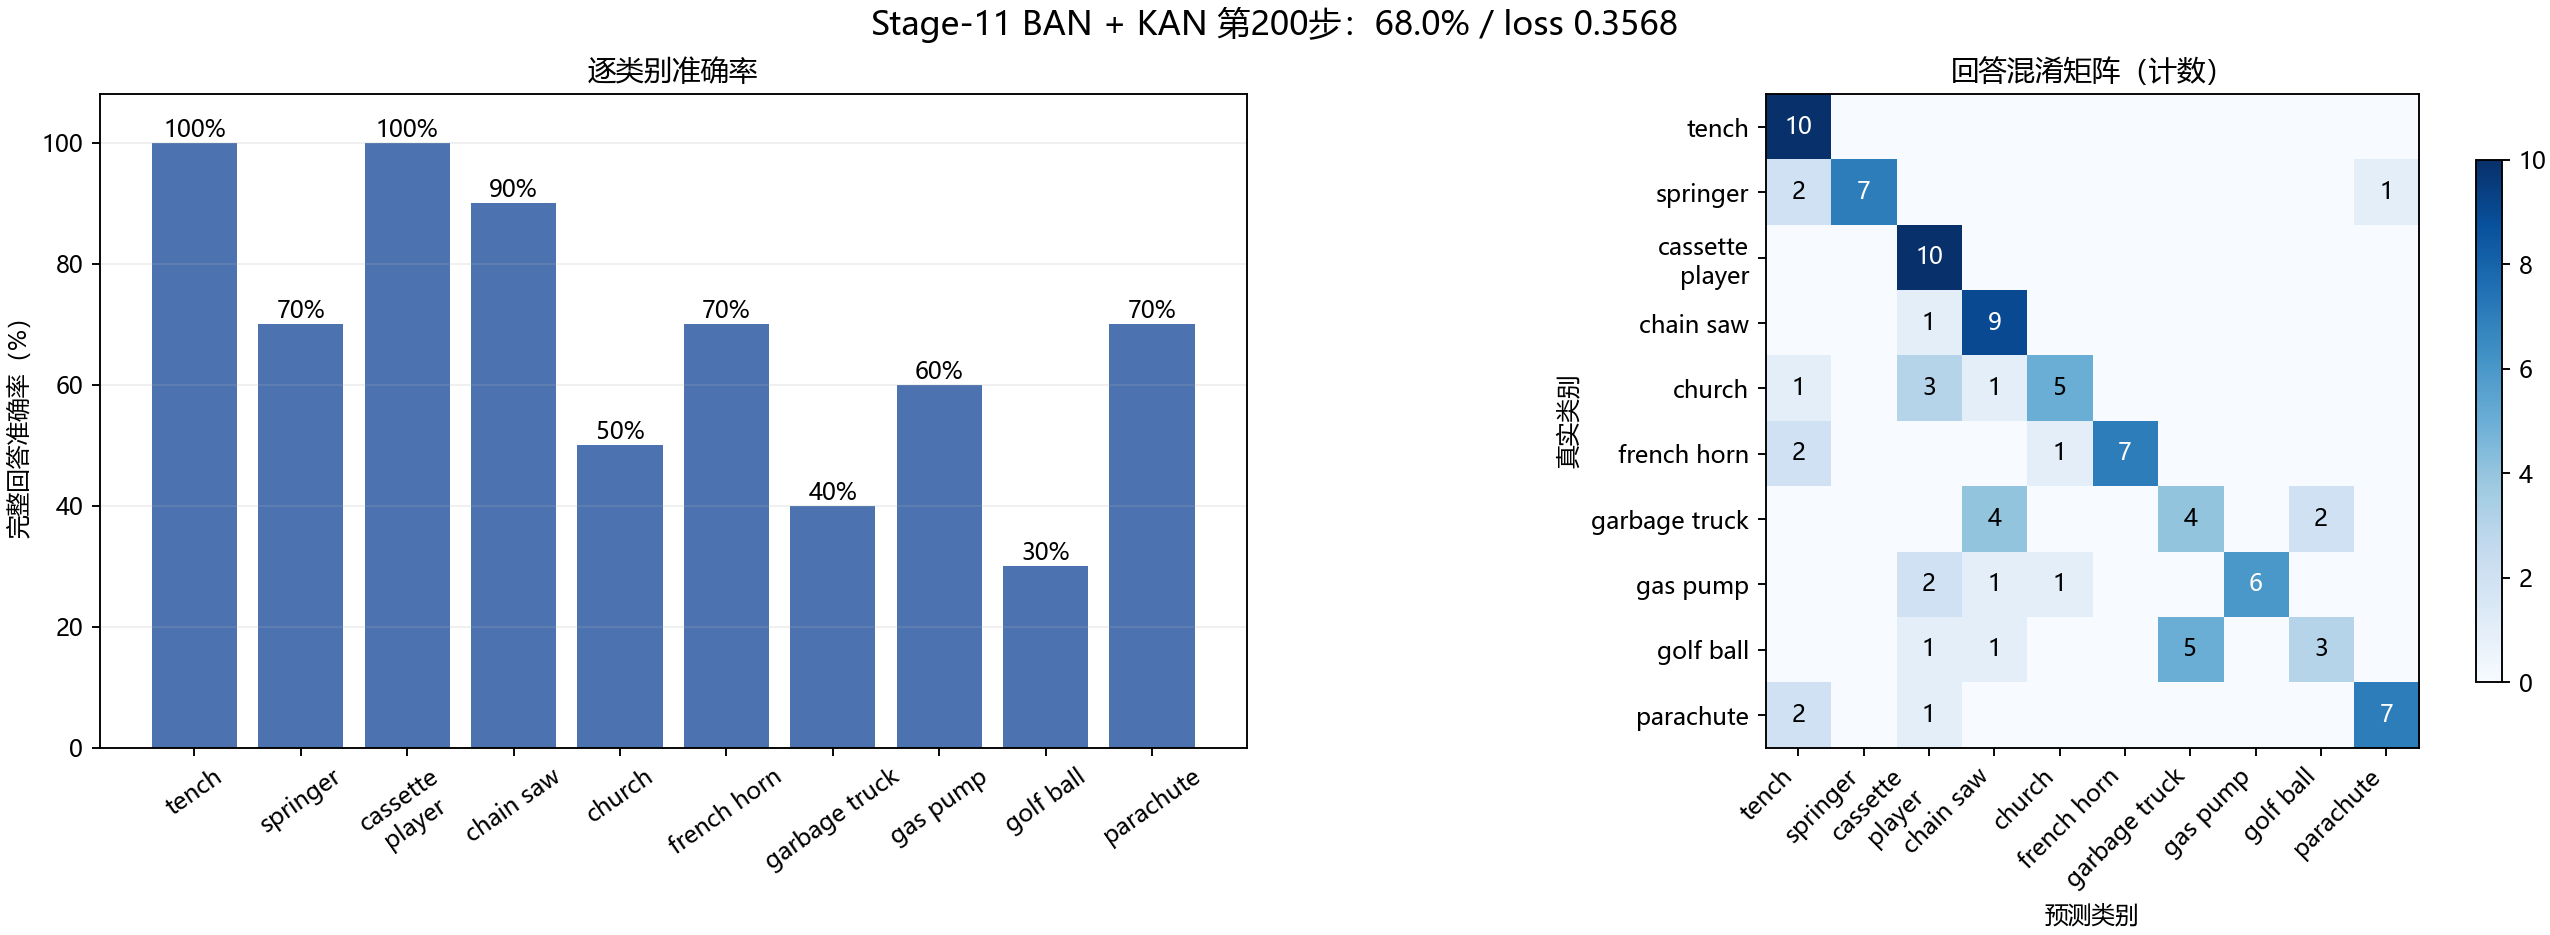
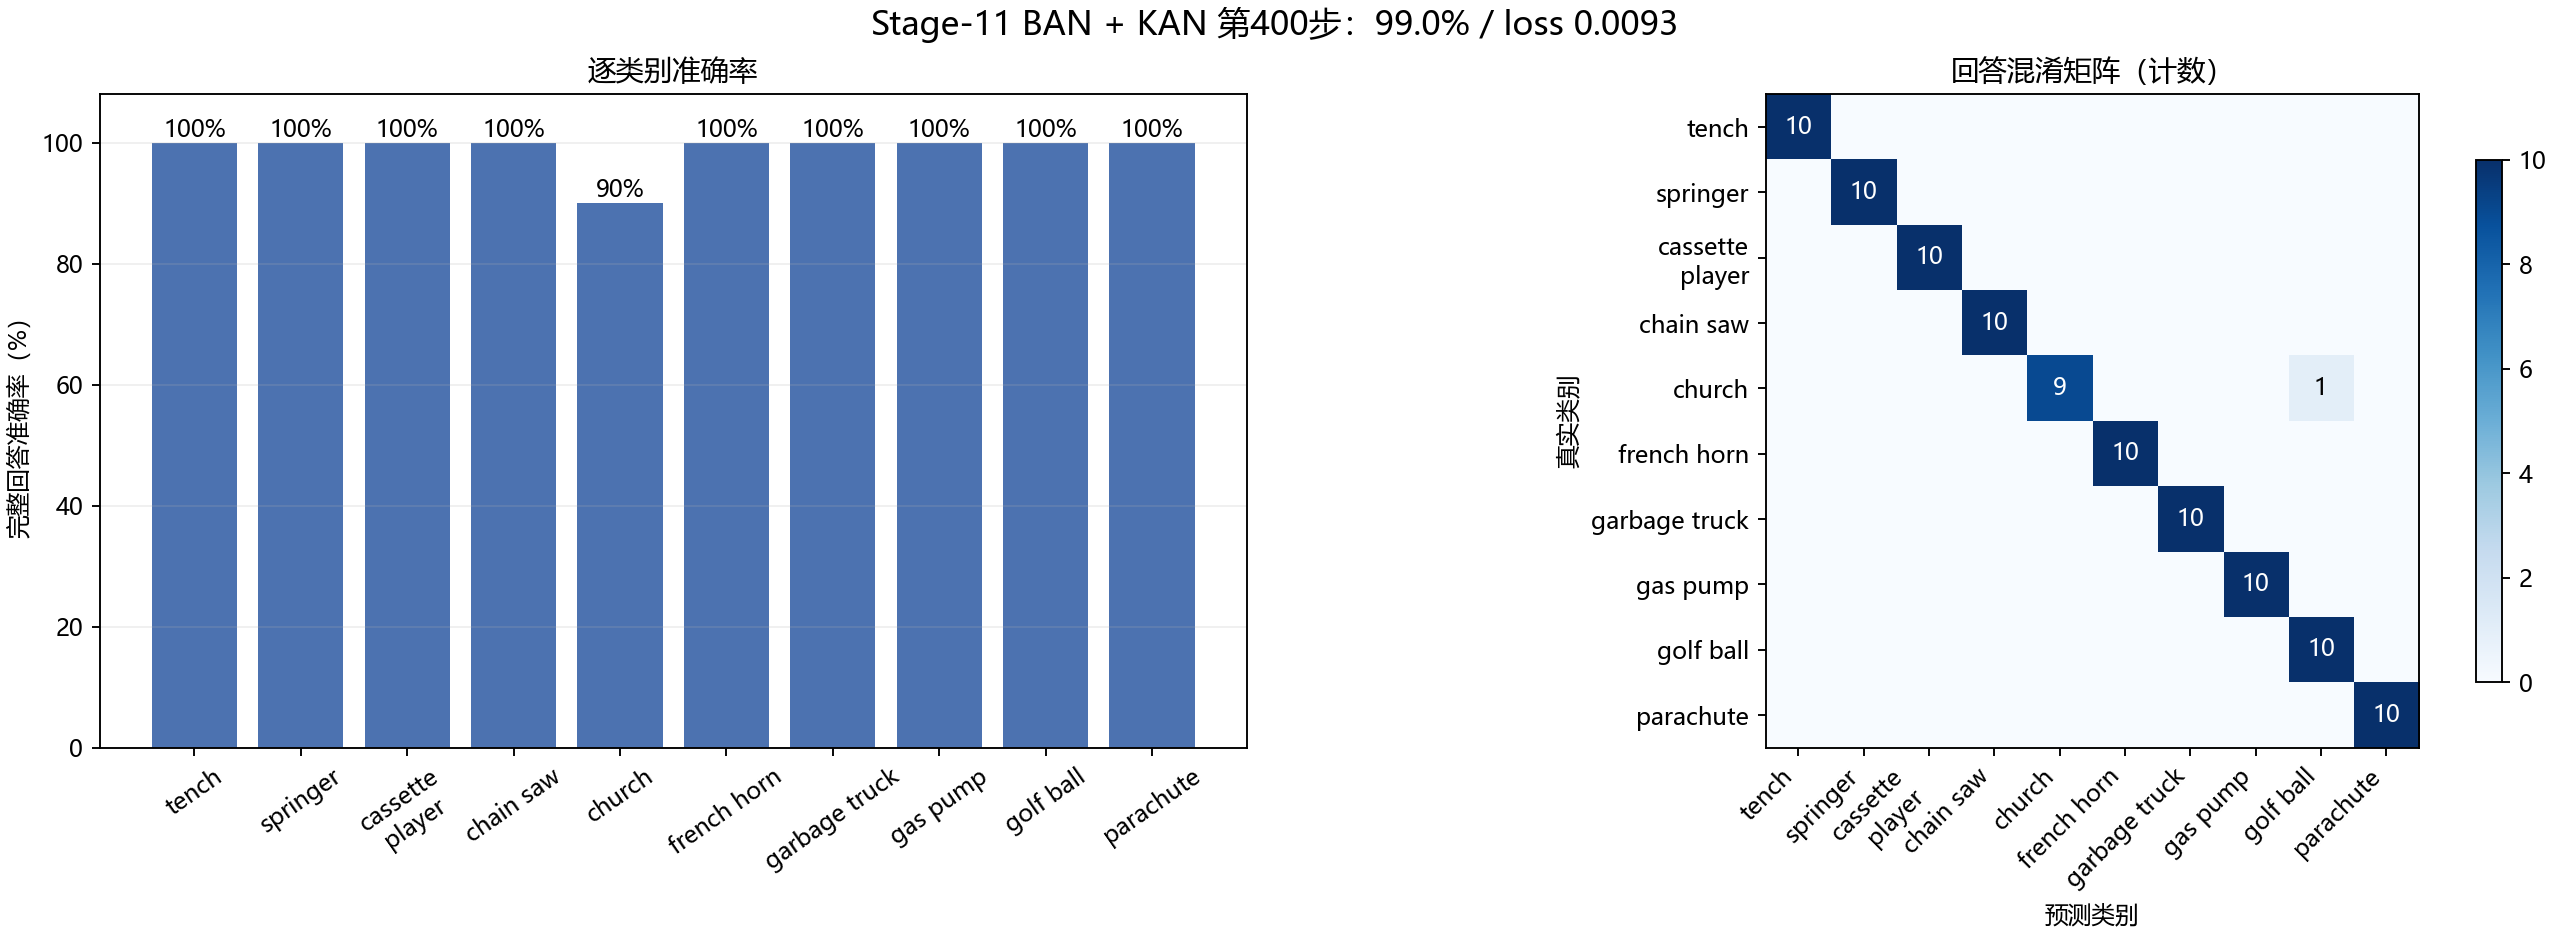
Record Stage 11 step 400 validation

diff --git a/STAGE11_PROGRESS.md b/STAGE11_PROGRESS.md
@@ -1,12 +1,12 @@
 # Stage-11 四小时推进快照
 
-- 生成时间：2026-10-05T12:43:42+08:00
+- 生成时间：2026-10-05T12:50:41+08:00
 - 协议：`STAGE11_ABLATION_PROTOCOL.json`
 - 数据边界：仅使用训练集与固定开发验证集；Stage-10 最终测试集不参与结构选择。
 
 | 结构 | 状态 | 步数 | 最近训练损失 | 当前最佳验证损失 | 当前最佳准确率 |
 |---|---|---|---|---|---|
-| BAN + KAN | 训练中 | 241/800 | 1.102820 | 0.356773 | 68.00% |
+| BAN + KAN | 训练中 | 428/800 | 0.360941 | 0.009316 | 99.00% |
 | BAN + MLP | 等待自动接力 | 0/800 | — | — | — |
 | Concat + MLP | 等待自动接力 | 0/800 | — | — | — |
 
@@ -17,20 +17,20 @@
 
 ## 最近一次固定开发验证
 
-结构：BAN + KAN；步数：200；损失：0.356773；完整回答准确率：68.00%。
+结构：BAN + KAN；步数：400；损失：0.009316；完整回答准确率：99.00%。
 
 | 类别 | 正确 | 样本 | 准确率 |
 |---|---|---|---|
 | tench | 10 | 10 | 100.0% |
-| english springer | 7 | 10 | 70.0% |
+| english springer | 10 | 10 | 100.0% |
 | cassette player | 10 | 10 | 100.0% |
-| chain saw | 9 | 10 | 90.0% |
-| church | 5 | 10 | 50.0% |
-| french horn | 7 | 10 | 70.0% |
-| garbage truck | 4 | 10 | 40.0% |
-| gas pump | 6 | 10 | 60.0% |
-| golf ball | 3 | 10 | 30.0% |
-| parachute | 7 | 10 | 70.0% |
+| chain saw | 10 | 10 | 100.0% |
+| church | 9 | 10 | 90.0% |
+| french horn | 10 | 10 | 100.0% |
+| garbage truck | 10 | 10 | 100.0% |
+| gas pump | 10 | 10 | 100.0% |
+| golf ball | 10 | 10 | 100.0% |
+| parachute | 10 | 10 | 100.0% |
 
 
 ![逐类别准确率与混淆矩阵](figures/stage11/latest_diagnostics.png)

diff --git a/STAGE10_RESEARCH_LOG.md b/STAGE10_RESEARCH_LOG.md
@@ -115,6 +115,8 @@ GitHub 仓库只提交源码、配置、轻量 JSON/CSV 指标、图表和 Markd
 
[1 lines of base64/hex data omitted]
 
[1 lines of base64/hex data omitted]
+
 ## 10. 统一通信开销口径
 
 `communication_budget.py`现在把三种单位分开核算：离散token源码比特、加入逐包CRC/卷积码后的编码比特，以及真正进入信道的复符号数。公开VQGAN规格的256个、1024码本token对应2,560源比特，即0.0390625 bpp；按当前每包4 token、CRC-16、6终止位、码率1/2卷积码和16-QAM参考链路计算，共7,936编码比特与1,984个复符号。解析结果由测试与`digital_link.py`的无噪声实际统计逐项核对。
